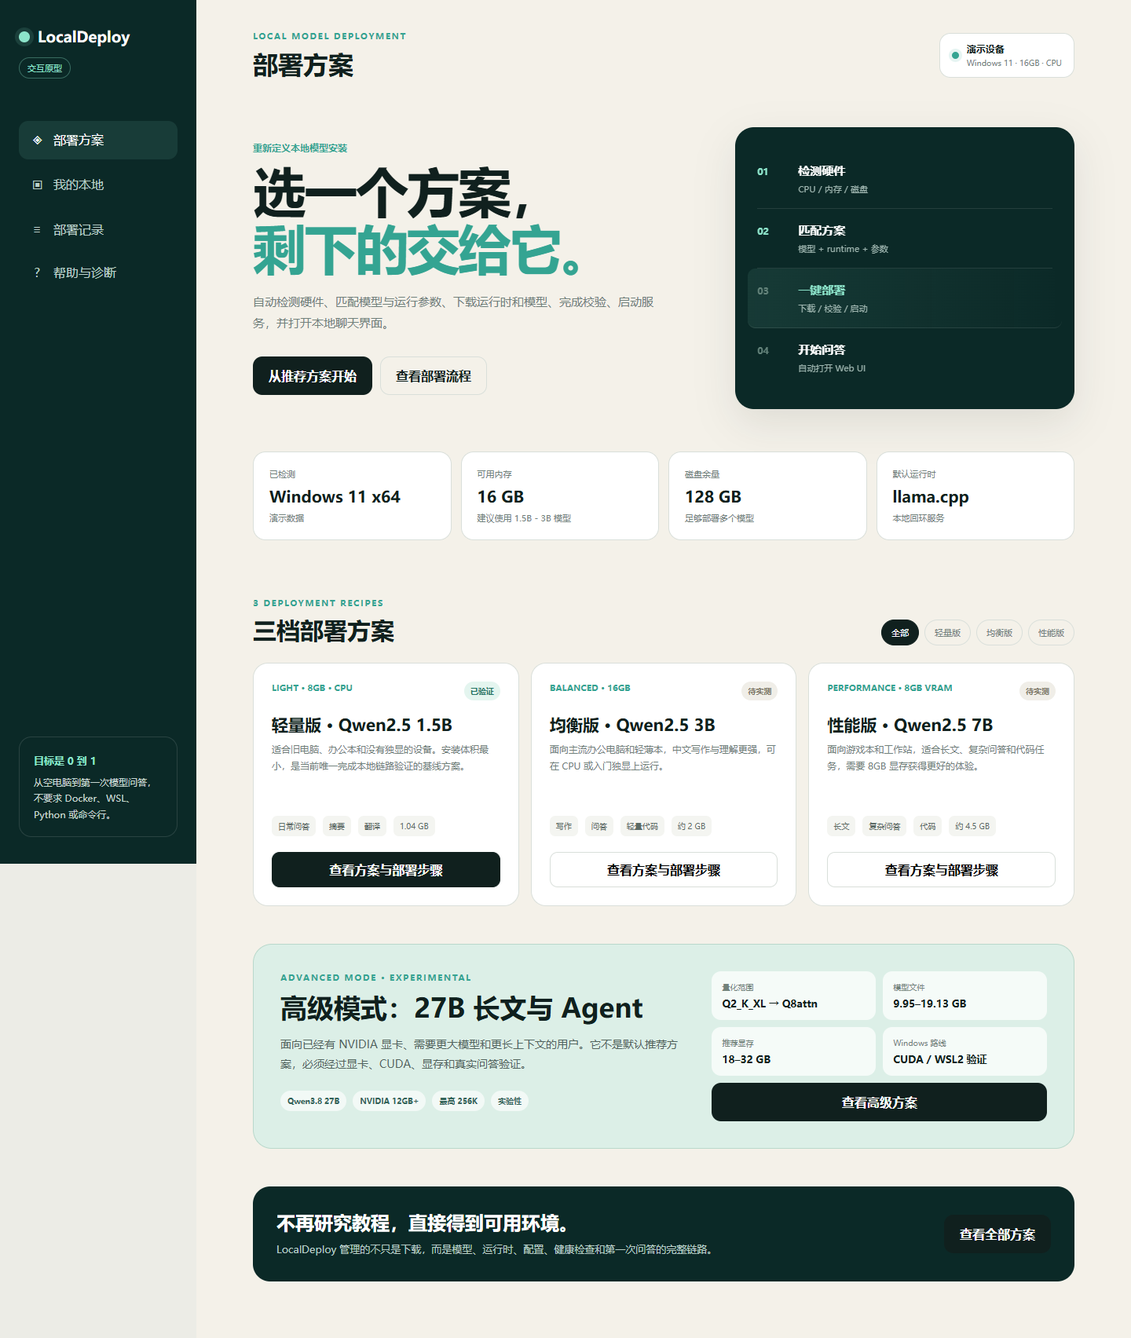
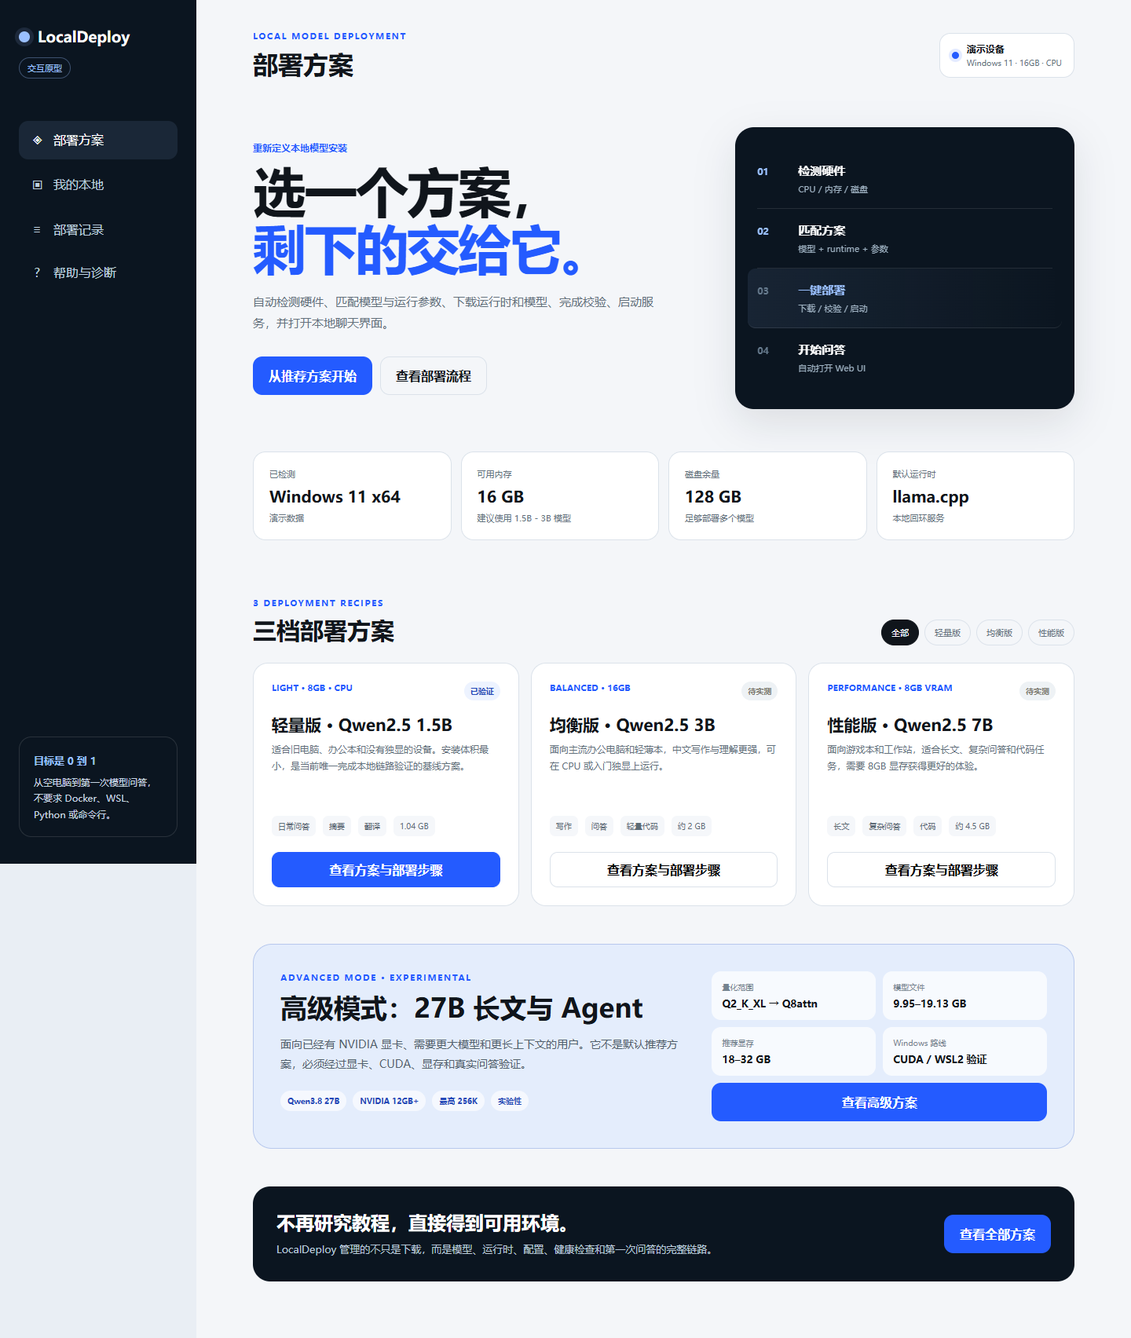
style: refresh product palette and controls

diff --git a/assets/site.css b/assets/site.css
@@ -1,18 +1,18 @@
 :root {
-  --paper: #f5f4ee;
-  --paper-2: #eeece4;
-  --white: #fffefa;
-  --ink: #12201d;
-  --dark: #10201e;
-  --dark-2: #18312d;
-  --muted: #6b7772;
-  --line: #d9ded7;
+  --paper: #f4f6f9;
+  --paper-2: #e9eef4;
+  --white: #ffffff;
+  --ink: #10151b;
+  --dark: #0b1520;
+  --dark-2: #12202f;
+  --muted: #64717c;
+  --line: #dbe2ea;
   --line-dark: rgba(255,255,255,.14);
-  --green: #328f78;
-  --mint: #95e4cd;
-  --mint-soft: #dff3eb;
-  --orange: #d96842;
-  --shadow: 0 24px 70px rgba(16,32,30,.12);
+  --green: #245bff;
+  --mint: #9ac0ff;
+  --mint-soft: #edf3ff;
+  --orange: #ff6a4a;
+  --shadow: 0 24px 70px rgba(11,21,32,.12);
   --max: 1240px;
 }
 * { box-sizing: border-box; }
@@ -31,7 +31,7 @@ img { max-width: 100%; display: block; }
 .announcement {
   min-height: 34px;
   display: flex; align-items: center; justify-content: center; gap: 7px;
-  background: var(--dark); color: #d7e7e1;
+  background: var(--dark); color: #d7e3f4;
   font-size: 11px; letter-spacing: .06em;
 }
 .announcement span { color: var(--mint); }
@@ -42,12 +42,12 @@ img { max-width: 100%; display: block; }
   padding: 22px 0;
   background: color-mix(in srgb, var(--paper) 92%, transparent);
   backdrop-filter: blur(18px);
-  border-bottom: 1px solid rgba(18,32,29,.06);
+  border-bottom: 1px solid rgba(11,21,32,.06);
 }
 .brand { display: inline-flex; align-items: center; gap: 10px; font-weight: 800; letter-spacing: -.02em; }
 .brand img { width: 30px; height: 30px; border-radius: 7px; }
 .site-nav { display: flex; align-items: center; justify-content: center; gap: 30px; }
-.site-nav a { color: #52605b; font-size: 13px; font-weight: 600; }
+.site-nav a { color: #52616c; font-size: 13px; font-weight: 600; }
 .site-nav a:hover, .site-nav a.active { color: var(--ink); }
 .header-cta { justify-self: end; }
 .button {
@@ -57,13 +57,13 @@ img { max-width: 100%; display: block; }
 }
 .button:hover { transform: translateY(-1px); }
 .button-small { min-height: 36px; padding: 0 15px; font-size: 11px; }
-.button-primary { background: var(--ink); color: var(--white); }
-.button-primary:hover { background: #233b35; }
-.button-dark { background: var(--ink); color: var(--white); }
-.button-dark:hover { background: #263d37; }
+.button-primary { background: var(--green); color: var(--white); }
+.button-primary:hover { background: #18345c; }
+.button-dark { background: var(--green); color: var(--white); }
+.button-dark:hover { background: #1e3858; }
 .button-light { background: var(--white); color: var(--ink); }
-.button-light:hover { background: var(--mint); }
-.text-link { display: inline-flex; align-items: center; font-size: 13px; font-weight: 700; border-bottom: 1px solid #98a59f; padding-bottom: 3px; }
+.button-light:hover { background: #d8e5ff; }
+.text-link { display: inline-flex; align-items: center; font-size: 13px; font-weight: 700; border-bottom: 1px solid #9aa6b1; padding-bottom: 3px; }
 .menu-toggle { display: none; width: 38px; height: 38px; border: 1px solid var(--line); background: transparent; border-radius: 8px; padding: 10px; }
 .menu-toggle span { display: block; height: 1px; background: var(--ink); margin: 5px 0; }
 .eyebrow { margin: 0; color: var(--green); font-size: 10px; font-weight: 800; letter-spacing: .16em; }
@@ -72,37 +72,37 @@ img { max-width: 100%; display: block; }
 .hero-copy h1 span, .page-hero h1 span, .enterprise-hero h1 span { color: var(--green); }
 .hero-lead { max-width: 610px; margin: 0; color: var(--muted); font-size: 17px; line-height: 1.85; }
 .hero-actions { display: flex; align-items: center; gap: 24px; margin-top: 34px; flex-wrap: wrap; }
-.hero-footnote { display: flex; gap: 22px; flex-wrap: wrap; margin-top: 38px; color: #71807a; font-size: 11px; }
+.hero-footnote { display: flex; gap: 22px; flex-wrap: wrap; margin-top: 38px; color: #74838f; font-size: 11px; }
 .hero-footnote span { display: inline-flex; align-items: center; gap: 7px; }
-.dot { display: inline-block; width: 7px; height: 7px; border-radius: 50%; background: var(--green); box-shadow: 0 0 0 4px rgba(50,143,120,.12); }
+.dot { display: inline-block; width: 7px; height: 7px; border-radius: 50%; background: var(--green); box-shadow: 0 0 0 4px rgba(36,91,255,.12); }
 .hero-product { position: relative; border-radius: 16px; background: var(--dark); box-shadow: var(--shadow); overflow: hidden; transform: rotate(1.2deg); }
 .hero-product::before { content: ""; position: absolute; width: 180px; height: 180px; border-radius: 50%; background: var(--mint); opacity: .08; top: -100px; right: -50px; }
-.window-bar { height: 43px; display: flex; align-items: center; gap: 12px; padding: 0 15px; border-bottom: 1px solid var(--line-dark); color: #b8c9c3; font-size: 10px; }
+.window-bar { height: 43px; display: flex; align-items: center; gap: 12px; padding: 0 15px; border-bottom: 1px solid var(--line-dark); color: #b7c5d4; font-size: 10px; }
 .window-bar small { margin-left: auto; color: #6f8981; }
 .window-lights { display: flex; gap: 5px; }
-.window-lights i { width: 7px; height: 7px; border-radius: 50%; background: #49625b; }
+.window-lights i { width: 7px; height: 7px; border-radius: 50%; background: #4b6172; }
 .window-body { display: grid; grid-template-columns: 150px 1fr; min-height: 470px; }
-.window-sidebar { border-right: 1px solid var(--line-dark); padding: 24px 16px; background: #0d1b19; }
+.window-sidebar { border-right: 1px solid var(--line-dark); padding: 24px 16px; background: #08111a; }
 .mini-brand { color: var(--white); font-weight: 800; display: flex; align-items: center; gap: 7px; font-size: 11px; margin-bottom: 32px; }
 .mini-brand span { width: 8px; height: 8px; border-radius: 2px; background: var(--mint); }
-.mini-nav { padding: 10px 8px; margin: 4px 0; border-radius: 6px; color: #758b84; font-size: 10px; }
-.mini-nav.active { background: rgba(149,228,205,.12); color: var(--mint); }
+.mini-nav { padding: 10px 8px; margin: 4px 0; border-radius: 6px; color: #778898; font-size: 10px; }
+.mini-nav.active { background: rgba(154,192,255,.13); color: var(--mint); }
 .mini-machine { margin-top: 150px; padding: 12px; border: 1px solid var(--line-dark); border-radius: 9px; }
 .mini-machine b, .mini-machine span { display: block; }
 .mini-machine b { color: var(--white); font-size: 10px; margin-bottom: 7px; }
-.mini-machine span { color: #789089; font-size: 8px; margin-top: 3px; }
+.mini-machine span { color: #7b8b9a; font-size: 8px; margin-top: 3px; }
 .window-content { padding: 38px 34px; color: var(--white); }
 .mini-eyebrow { color: var(--mint); font-size: 8px; letter-spacing: .15em; font-weight: 800; }
 .window-content h2 { margin: 10px 0 4px; font-size: 38px; letter-spacing: -.04em; }
-.window-content > p { margin: 0; color: #9ab0a9; font-size: 12px; }
+.window-content > p { margin: 0; color: #96a7b7; font-size: 12px; }
 .mini-plan { display: grid; grid-template-columns: 1fr 1.5fr; gap: 11px 20px; margin-top: 32px; padding-top: 22px; border-top: 1px solid var(--line-dark); font-size: 10px; }
-.mini-plan span { color: #7b918a; }
-.mini-plan strong { color: #eef7f3; }
+.mini-plan span { color: #7d8d9c; }
+.mini-plan strong { color: #f2f6ff; }
 .mint { color: var(--mint) !important; }
-.mini-progress { height: 5px; background: #27423c; border-radius: 99px; margin-top: 28px; overflow: hidden; }
+.mini-progress { height: 5px; background: #24344a; border-radius: 99px; margin-top: 28px; overflow: hidden; }
 .mini-progress span { display: block; width: 66%; height: 100%; background: var(--mint); }
-.mini-log { display: grid; gap: 6px; margin-top: 15px; color: #739087; font-size: 9px; }
-.mini-log b { color: #dbece6; }
+.mini-log { display: grid; gap: 6px; margin-top: 15px; color: #748796; font-size: 9px; }
+.mini-log b { color: #dce6f7; }
 .mini-button { display: inline-flex; margin-top: 24px; padding: 10px 16px; background: var(--mint); color: var(--dark); border-radius: 6px; font-size: 10px; font-weight: 800; }
 .proof-strip { background: var(--white); border-top: 1px solid var(--line); border-bottom: 1px solid var(--line); }
 .proof-grid { display: grid; grid-template-columns: repeat(4,1fr); }
@@ -116,39 +116,39 @@ img { max-width: 100%; display: block; }
 .section-heading > p { margin: 0; color: var(--muted); font-size: 14px; line-height: 1.85; }
 .plan-grid { display: grid; grid-template-columns: repeat(3, 1fr); gap: 15px; }
 .plan-card { min-height: 375px; padding: 26px; background: var(--white); border: 1px solid var(--line); border-radius: 13px; display: flex; flex-direction: column; transition: transform .25s, box-shadow .25s; }
-.plan-card:hover { transform: translateY(-4px); box-shadow: 0 18px 45px rgba(16,32,30,.08); }
+.plan-card:hover { transform: translateY(-4px); box-shadow: 0 18px 45px rgba(11,21,32,.08); }
 .plan-card-top { display: flex; align-items: center; justify-content: space-between; }
-.plan-index { color: #99a49f; font-size: 11px; font-weight: 800; letter-spacing: .1em; }
-.status-pill { display: inline-flex; padding: 5px 8px; border: 1px solid #a9d6c5; border-radius: 99px; background: #e6f5ef; color: #28745f; font-size: 9px; font-weight: 800; white-space: nowrap; }
-.status-pill.pending { background: transparent; border-color: var(--line); color: #77827e; }
-.dark-pill { border-color: #41635a; background: rgba(149,228,205,.12); color: var(--mint); }
+.plan-index { color: #9aa6b1; font-size: 11px; font-weight: 800; letter-spacing: .1em; }
+.status-pill { display: inline-flex; padding: 5px 8px; border: 1px solid #b7c8ed; border-radius: 99px; background: #edf3ff; color: #2448b8; font-size: 9px; font-weight: 800; white-space: nowrap; }
+.status-pill.pending { background: transparent; border-color: var(--line); color: #78848f; }
+.dark-pill { border-color: #46617c; background: rgba(154,192,255,.13); color: var(--mint); }
 .plan-card h3 { margin: 34px 0 5px; font-size: 30px; letter-spacing: -.04em; }
 .plan-model { margin: 0; color: var(--green); font-size: 13px; font-weight: 750; }
 .plan-desc { margin: 20px 0 0; color: var(--muted); font-size: 13px; line-height: 1.75; }
 .plan-facts { display: flex; gap: 6px; flex-wrap: wrap; margin-top: auto; padding-top: 22px; }
-.plan-facts span { padding: 6px 8px; background: #f2f3ee; border-radius: 5px; color: #68746f; font-size: 9px; }
+.plan-facts span { padding: 6px 8px; background: #f1f4f7; border-radius: 5px; color: #697682; font-size: 9px; }
 .plan-link { margin-top: 24px; padding-top: 16px; border-top: 1px solid var(--line); display: flex; justify-content: space-between; font-size: 12px; font-weight: 800; }
 .plan-link span { color: var(--green); }
-.plan-card-advanced { grid-column: 1 / -1; min-height: 260px; background: var(--dark); border-color: var(--dark); color: var(--white); display: grid; grid-template-columns: 130px .8fr 1.2fr auto; gap: 24px; align-items: center; }
+.plan-card-advanced { grid-column: 1 / -1; min-height: 260px; background: var(--dark); border-color: #1e3552; color: var(--white); display: grid; grid-template-columns: 130px .8fr 1.2fr auto; gap: 24px; align-items: center; }
 .plan-card-advanced .plan-card-top { grid-column: 1; flex-direction: column; align-items: flex-start; gap: 15px; }
 .plan-card-advanced h3 { margin: 0 0 5px; font-size: 34px; }
-.plan-card-advanced .plan-desc { margin: 0; color: #9db4ad; }
+.plan-card-advanced .plan-desc { margin: 0; color: #9aabba; }
 .advanced-path { display: flex; gap: 8px; align-items: center; flex-wrap: wrap; color: var(--mint); font-size: 10px; font-weight: 700; }
-.advanced-path span:nth-child(even) { color: #56766d; }
+.advanced-path span:nth-child(even) { color: #5d6e80; }
 .light-link { border: 0; padding: 0; color: var(--white); justify-content: flex-end; gap: 30px; }
 .light-link span { color: var(--mint); }
 .section-dark { background: var(--dark); color: var(--white); }
 .dark-heading h2 { color: var(--white); }
-.dark-heading > p { color: #9db4ad; }
+.dark-heading > p { color: #9aabba; }
 .dark-heading .eyebrow { color: var(--mint); }
 .steps { border-top: 1px solid var(--line-dark); }
 .step { display: grid; grid-template-columns: 80px .25fr .75fr; gap: 20px; padding: 27px 0; border-bottom: 1px solid var(--line-dark); }
 .step > span { color: var(--mint); font-size: 11px; font-weight: 800; }
 .step h3 { margin: 0; font-size: 22px; }
-.step p { margin: 0; color: #9db4ad; font-size: 13px; line-height: 1.7; }
+.step p { margin: 0; color: #9aabba; font-size: 13px; line-height: 1.7; }
 .interface-showcase { position: relative; margin-top: 60px; padding: 12px; border: 1px solid var(--line-dark); border-radius: 16px; background: rgba(255,255,255,.03); }
 .interface-showcase img { border-radius: 9px; width: 100%; }
-.interface-showcase span { display: block; padding: 12px 3px 2px; color: #789089; font-size: 9px; }
+.interface-showcase span { display: block; padding: 12px 3px 2px; color: #7b8b9a; font-size: 9px; }
 .principle-grid { display: grid; grid-template-columns: repeat(3, 1fr); gap: 1px; background: var(--line); border: 1px solid var(--line); }
 .principle { padding: 32px; background: var(--paper); }
 .principle-mark { display: block; margin-bottom: 42px; color: var(--green); font-size: 11px; font-weight: 900; }
@@ -157,7 +157,7 @@ img { max-width: 100%; display: block; }
 .enterprise-band { background: var(--dark); color: var(--white); }
 .enterprise-inner { display: flex; justify-content: space-between; align-items: center; gap: 50px; padding-top: 80px; padding-bottom: 80px; }
 .enterprise-inner h2 { margin: 10px 0 12px; font-size: clamp(32px, 4vw, 54px); letter-spacing: -.05em; }
-.enterprise-inner p:not(.eyebrow) { margin: 0; max-width: 680px; color: #a1b6af; font-size: 14px; line-height: 1.8; }
+.enterprise-inner p:not(.eyebrow) { margin: 0; max-width: 680px; color: #9eafbc; font-size: 14px; line-height: 1.8; }
 .enterprise-inner .eyebrow { color: var(--mint); }
 .faq-section { display: grid; grid-template-columns: .75fr 1.25fr; gap: 80px; }
 .faq-list details { border-top: 1px solid var(--line); }
@@ -173,7 +173,7 @@ img { max-width: 100%; display: block; }
 .footer-brand img { width: 28px; height: 28px; border-radius: 7px; }
 .footer-brand small { color: var(--muted); font-weight: 500; margin-left: 5px; }
 .footer-links { display: flex; gap: 24px; color: var(--muted); font-size: 11px; }
-.footer-inner > p { margin: 0; color: #8b9691; font-size: 10px; }
+.footer-inner > p { margin: 0; color: #8b98a3; font-size: 10px; }
 .page-hero { padding-top: 100px; padding-bottom: 60px; }
 .page-hero h1 { margin-bottom: 24px; font-size: clamp(56px, 7vw, 92px); }
 .page-hero > p:last-child { max-width: 660px; margin: 0; color: var(--muted); font-size: 15px; line-height: 1.85; }
@@ -181,41 +181,41 @@ img { max-width: 100%; display: block; }
 .hardware-picker { display: flex; align-items: center; justify-content: space-between; gap: 30px; padding: 22px; background: var(--white); border: 1px solid var(--line); border-radius: 13px; }
 .hardware-picker h2 { margin: 6px 0 0; font-size: 20px; }
 .hardware-options { display: flex; gap: 7px; flex-wrap: wrap; }
-.hardware-options button { border: 1px solid var(--line); background: var(--paper); border-radius: 7px; padding: 10px 12px; font-size: 10px; color: #63706b; }
-.hardware-options button.active, .hardware-options button:hover { border-color: var(--green); background: var(--mint-soft); color: #286e5c; }
-.match-result { min-width: 220px; padding: 14px 16px; border-left: 2px solid var(--green); background: var(--mint-soft); color: #286e5c; font-size: 12px; line-height: 1.7; }
+.hardware-options button { border: 1px solid var(--line); background: var(--paper); border-radius: 7px; padding: 10px 12px; font-size: 10px; color: #64717d; }
+.hardware-options button.active, .hardware-options button:hover { border-color: var(--green); background: var(--mint-soft); color: #2448b8; }
+.match-result { min-width: 220px; padding: 14px 16px; border-left: 2px solid var(--green); background: var(--mint-soft); color: #2448b8; font-size: 12px; line-height: 1.7; }
 .plan-detail-list { border-top: 1px solid var(--line); }
 .plan-detail { padding: 70px 0; border-bottom: 1px solid var(--line); scroll-margin-top: 90px; transition: background .25s; }
-.plan-detail.recommended { background: linear-gradient(90deg, rgba(50,143,120,.06), transparent 65%); }
+.plan-detail.recommended { background: linear-gradient(90deg, rgba(36,91,255,.06), transparent 65%); }
 .plan-detail-head { display: grid; grid-template-columns: 100px 1fr auto; align-items: start; gap: 24px; }
-.large-index { color: #a2ada8; font-size: 11px; font-weight: 800; padding-top: 5px; }
+.large-index { color: #a0abb5; font-size: 11px; font-weight: 800; padding-top: 5px; }
 .plan-detail-head h2 { margin: 8px 0 4px; font-size: clamp(32px, 4vw, 52px); letter-spacing: -.05em; }
 .plan-detail-head p:last-child { margin: 0; color: var(--muted); font-size: 13px; }
 .plan-detail-body { display: grid; grid-template-columns: 1.1fr .9fr; gap: 70px; margin-top: 42px; padding-left: 124px; }
 .plan-spec-grid { display: grid; grid-template-columns: repeat(2, 1fr); border-top: 1px solid var(--line); }
 .plan-spec-grid div { padding: 16px 0; border-bottom: 1px solid var(--line); }
 .plan-spec-grid span, .plan-spec-grid strong { display: block; }
-.plan-spec-grid span { color: #85918c; font-size: 10px; }
+.plan-spec-grid span { color: #86929d; font-size: 10px; }
 .plan-spec-grid strong { margin-top: 7px; font-size: 13px; }
 .plan-detail-copy h3 { margin: 0 0 9px; font-size: 13px; }
 .plan-detail-copy h3:not(:first-child) { margin-top: 25px; }
 .plan-detail-copy p { margin: 0; color: var(--muted); font-size: 13px; line-height: 1.8; }
-.advanced-pill { background: var(--dark); border-color: var(--dark); color: var(--mint); }
+.advanced-pill { background: rgba(154,192,255,.12); border-color: #46648b; color: #d7e5ff; }
 .plan-detail-advanced { margin-top: 26px; padding: 48px; background: var(--dark); color: var(--white); border: 0; border-radius: 14px; }
-.plan-detail-advanced .plan-detail-head p:last-child, .plan-detail-advanced .plan-detail-copy p { color: #a4b9b2; }
+.plan-detail-advanced .plan-detail-head p:last-child, .plan-detail-advanced .plan-detail-copy p { color: #a0afbd; }
 .plan-detail-advanced .plan-spec-grid { border-color: var(--line-dark); }
 .plan-detail-advanced .plan-spec-grid div { border-color: var(--line-dark); }
-.plan-detail-advanced .plan-spec-grid span { color: #7f9990; }
+.plan-detail-advanced .plan-spec-grid span { color: #80909f; }
 .plan-detail-advanced .plan-detail-copy h3 { color: var(--mint); }
-.advanced-note { grid-column: 1 / -1; margin-top: 14px; padding: 16px 18px; border-left: 2px solid var(--orange); background: rgba(217,104,66,.09); color: #d8c9c1; font-size: 12px; line-height: 1.8; }
+.advanced-note { grid-column: 1 / -1; margin-top: 14px; padding: 16px 18px; border-left: 2px solid var(--orange); background: rgba(255,106,74,.09); color: #d8c9c1; font-size: 12px; line-height: 1.8; }
 .advanced-note strong { color: #fff; }
 .compare-section { padding-top: 90px; padding-bottom: 110px; }
 .compact-heading { margin-bottom: 28px; }
 .table-wrap { overflow-x: auto; border: 1px solid var(--line); }
 table { width: 100%; border-collapse: collapse; min-width: 780px; background: var(--white); }
 th, td { padding: 16px 14px; text-align: left; border-bottom: 1px solid var(--line); font-size: 12px; }
-th { color: #84908b; font-size: 9px; letter-spacing: .08em; text-transform: uppercase; }
-td { color: #44534e; }
+th { color: #84919c; font-size: 9px; letter-spacing: .08em; text-transform: uppercase; }
+td { color: #46535e; }
 tbody tr:last-child td { border-bottom: 0; }
 .compact-band .enterprise-inner { padding-top: 54px; padding-bottom: 54px; }
 .compact-band h2 { font-size: 38px; }
@@ -227,10 +227,10 @@ tbody tr:last-child td { border-bottom: 0; }
 .system-node { position: relative; padding: 16px; background: var(--dark-2); border: 1px solid var(--line-dark); border-radius: 10px; }
 .system-node.main { margin-top: 32px; }
 .system-node span, .system-node strong, .system-node small { display: block; }
-.system-node span { color: #708d84; font-size: 9px; }
+.system-node span { color: #718595; font-size: 9px; }
 .system-node strong { margin-top: 8px; font-size: 14px; }
-.system-node small { margin-top: 4px; color: #8da59d; font-size: 9px; }
-.system-connector { width: 1px; height: 16px; margin: 0 auto; background: #3a5a52; }
+.system-node small { margin-top: 4px; color: #8c9dad; font-size: 9px; }
+.system-connector { width: 1px; height: 16px; margin: 0 auto; background: #3d566e; }
 .system-row { display: grid; grid-template-columns: 1fr 1fr; gap: 10px; }
 .footer-node { margin-top: 16px; }
 .capability-grid { display: grid; grid-template-columns: repeat(3,1fr); border-top: 1px solid var(--line); border-left: 1px solid var(--line); }
@@ -250,11 +250,11 @@ tbody tr:last-child td { border-bottom: 0; }
 .fit-panel { padding: 34px; border: 1px solid var(--line); border-radius: 12px; background: var(--white); }
 .fit-panel h3 { margin: 0 0 24px; font-size: 28px; }
 .fit-panel ul { margin: 0; padding: 0; list-style: none; }
-.fit-panel li { padding: 12px 0; border-top: 1px solid var(--line); color: #53615c; font-size: 13px; }
-.fit-panel-muted { background: #ebeae4; }
+.fit-panel li { padding: 12px 0; border-top: 1px solid var(--line); color: #53616c; font-size: 13px; }
+.fit-panel-muted { background: #e9eef4; }
 .roadmap { display: grid; grid-template-columns: repeat(3,1fr); gap: 14px; }
 .roadmap-item { padding: 26px; border: 1px solid var(--line); border-radius: 10px; background: var(--white); }
-.roadmap-item.active { border-color: #92cbb8; background: var(--mint-soft); }
+.roadmap-item.active { border-color: #9db8e8; background: var(--mint-soft); }
 .roadmap-item span { color: var(--green); font-size: 9px; letter-spacing: .12em; font-weight: 800; }
 .roadmap-item h3 { margin: 28px 0 10px; font-size: 20px; }
 .roadmap-item p { margin: 0; color: var(--muted); font-size: 12px; line-height: 1.75; }
@@ -262,7 +262,7 @@ tbody tr:last-child td { border-bottom: 0; }
 .contact-inner { max-width: 760px; text-align: center; }
 .contact-inner .eyebrow { color: var(--mint); }
 .contact-inner h2 { margin: 14px 0 20px; font-size: clamp(38px, 5vw, 64px); line-height: 1.05; letter-spacing: -.05em; }
-.contact-inner p:not(.eyebrow) { max-width: 620px; margin: 0 auto 28px; color: #a6bbb4; font-size: 14px; line-height: 1.8; }
+.contact-inner p:not(.eyebrow) { max-width: 620px; margin: 0 auto 28px; color: #a3b2bf; font-size: 14px; line-height: 1.8; }
 .contact-inner .button { background: var(--mint); color: var(--dark); }
 .reveal { opacity: 0; transform: translateY(16px); transition: opacity .65s ease, transform .65s ease; }
 .reveal.is-visible { opacity: 1; transform: translateY(0); }
@@ -354,4 +354,4 @@ tbody tr:last-child td { border-bottom: 0; }
 }
 
 :focus-visible { outline: 2px solid var(--green); outline-offset: 3px; }
-body.is-scrolled .site-header { border-bottom-color: rgba(18,32,29,.13); box-shadow: 0 8px 22px rgba(16,32,30,.035); }
+body.is-scrolled .site-header { border-bottom-color: rgba(11,21,32,.13); box-shadow: 0 8px 22px rgba(11,21,32,.035); }

diff --git a/enterprise.html b/enterprise.html
@@ -5,7 +5,7 @@
   <meta name="viewport" content="width=device-width, initial-scale=1">
   <title>企业本地 AI 部署 — LocalDeploy</title>
   <meta name="description" content="LocalDeploy 为企业提供本地模型选型、私有部署、Web UI、知识库接入和长期维护方案。">
-  <meta name="theme-color" content="#10201e">
+  <meta name="theme-color" content="#0b1520">
   <link rel="icon" href="assets/favicon.svg" type="image/svg+xml">
   <link rel="canonical" href="https://pingredsai.github.io/localdeploy/enterprise.html">
   <meta property="og:type" content="website">

diff --git a/index.html b/index.html
@@ -5,7 +5,7 @@
   <meta name="viewport" content="width=device-width, initial-scale=1">
   <title>LocalDeploy — 本地模型，装好即用</title>
   <meta name="description" content="LocalDeploy 自动检测硬件、匹配已验证方案，一键完成本地模型部署并打开 Web UI。">
-  <meta name="theme-color" content="#10201e">
+  <meta name="theme-color" content="#0b1520">
   <link rel="icon" href="assets/favicon.svg" type="image/svg+xml">
   <link rel="canonical" href="https://pingredsai.github.io/localdeploy/">
   <meta property="og:type" content="website">

diff --git a/plans.html b/plans.html
@@ -5,7 +5,7 @@
   <meta name="viewport" content="width=device-width, initial-scale=1">
   <title>部署方案 — LocalDeploy</title>
   <meta name="description" content="LocalDeploy 四档本地模型部署方案：轻量版、均衡版、性能版与 Qwen3.8 27B 高级版。">
-  <meta name="theme-color" content="#10201e">
+  <meta name="theme-color" content="#0b1520">
   <link rel="icon" href="assets/favicon.svg" type="image/svg+xml">
   <link rel="canonical" href="https://pingredsai.github.io/localdeploy/plans.html">
   <meta property="og:type" content="website">
